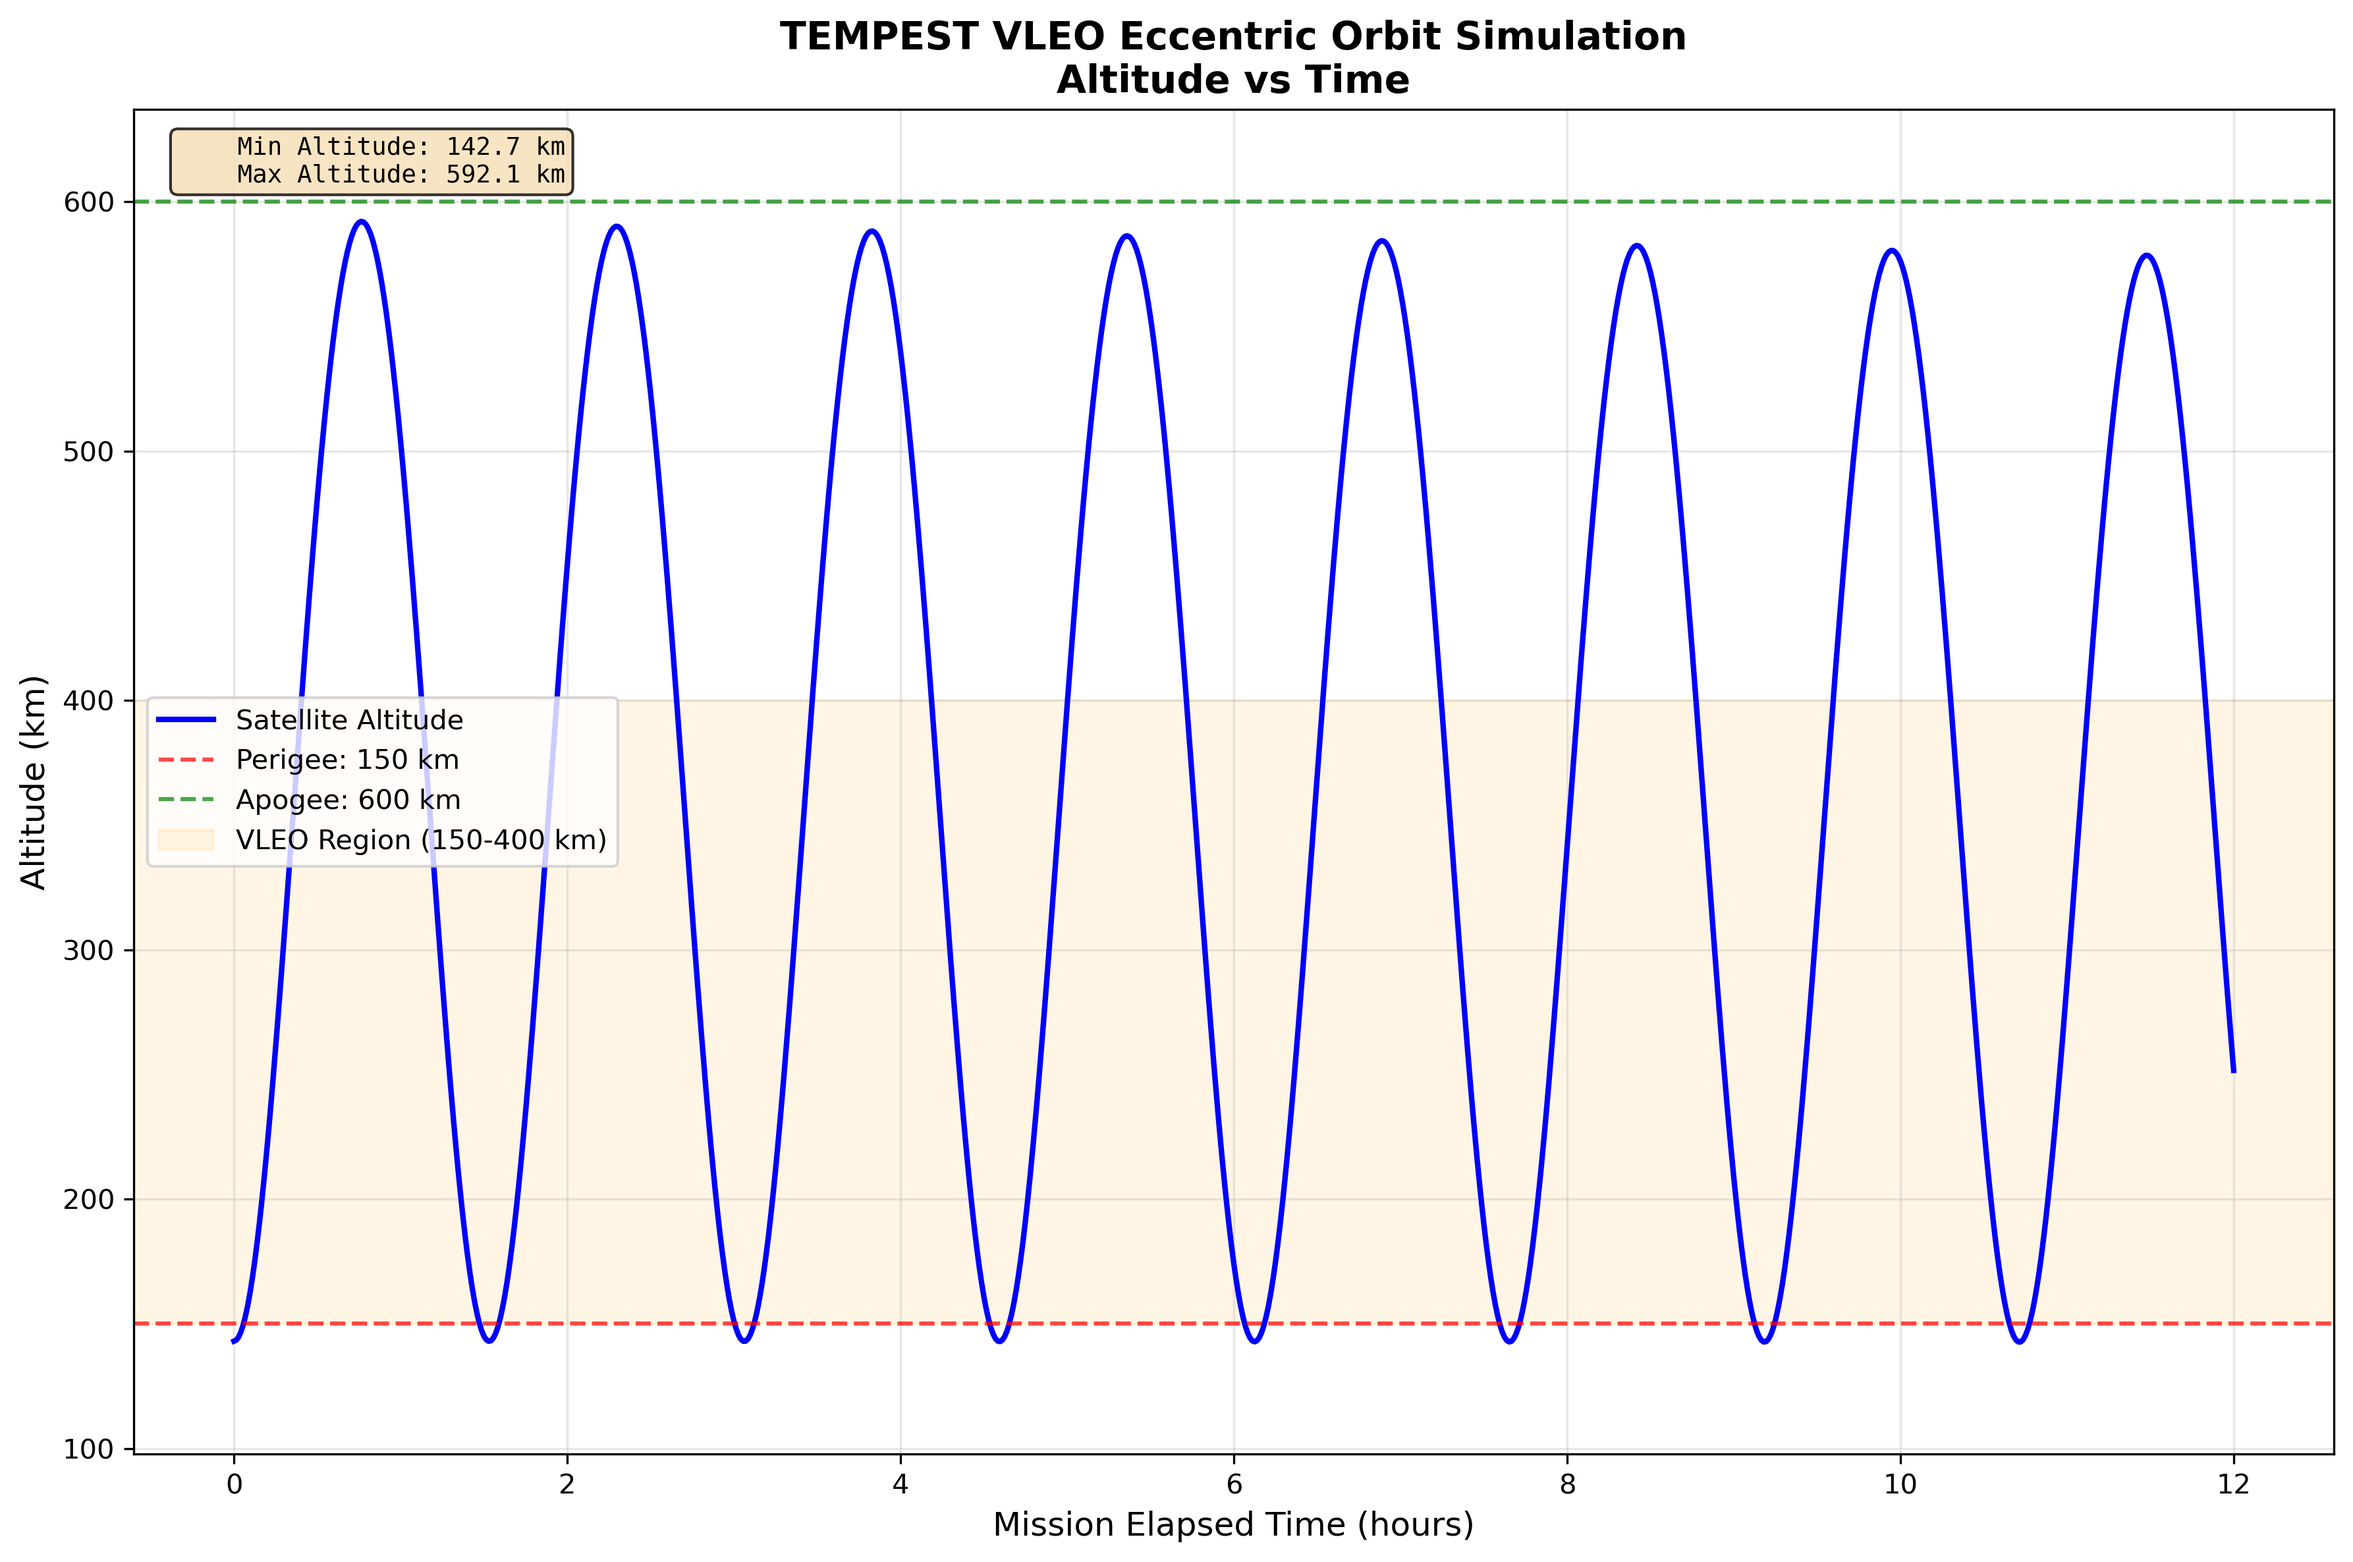
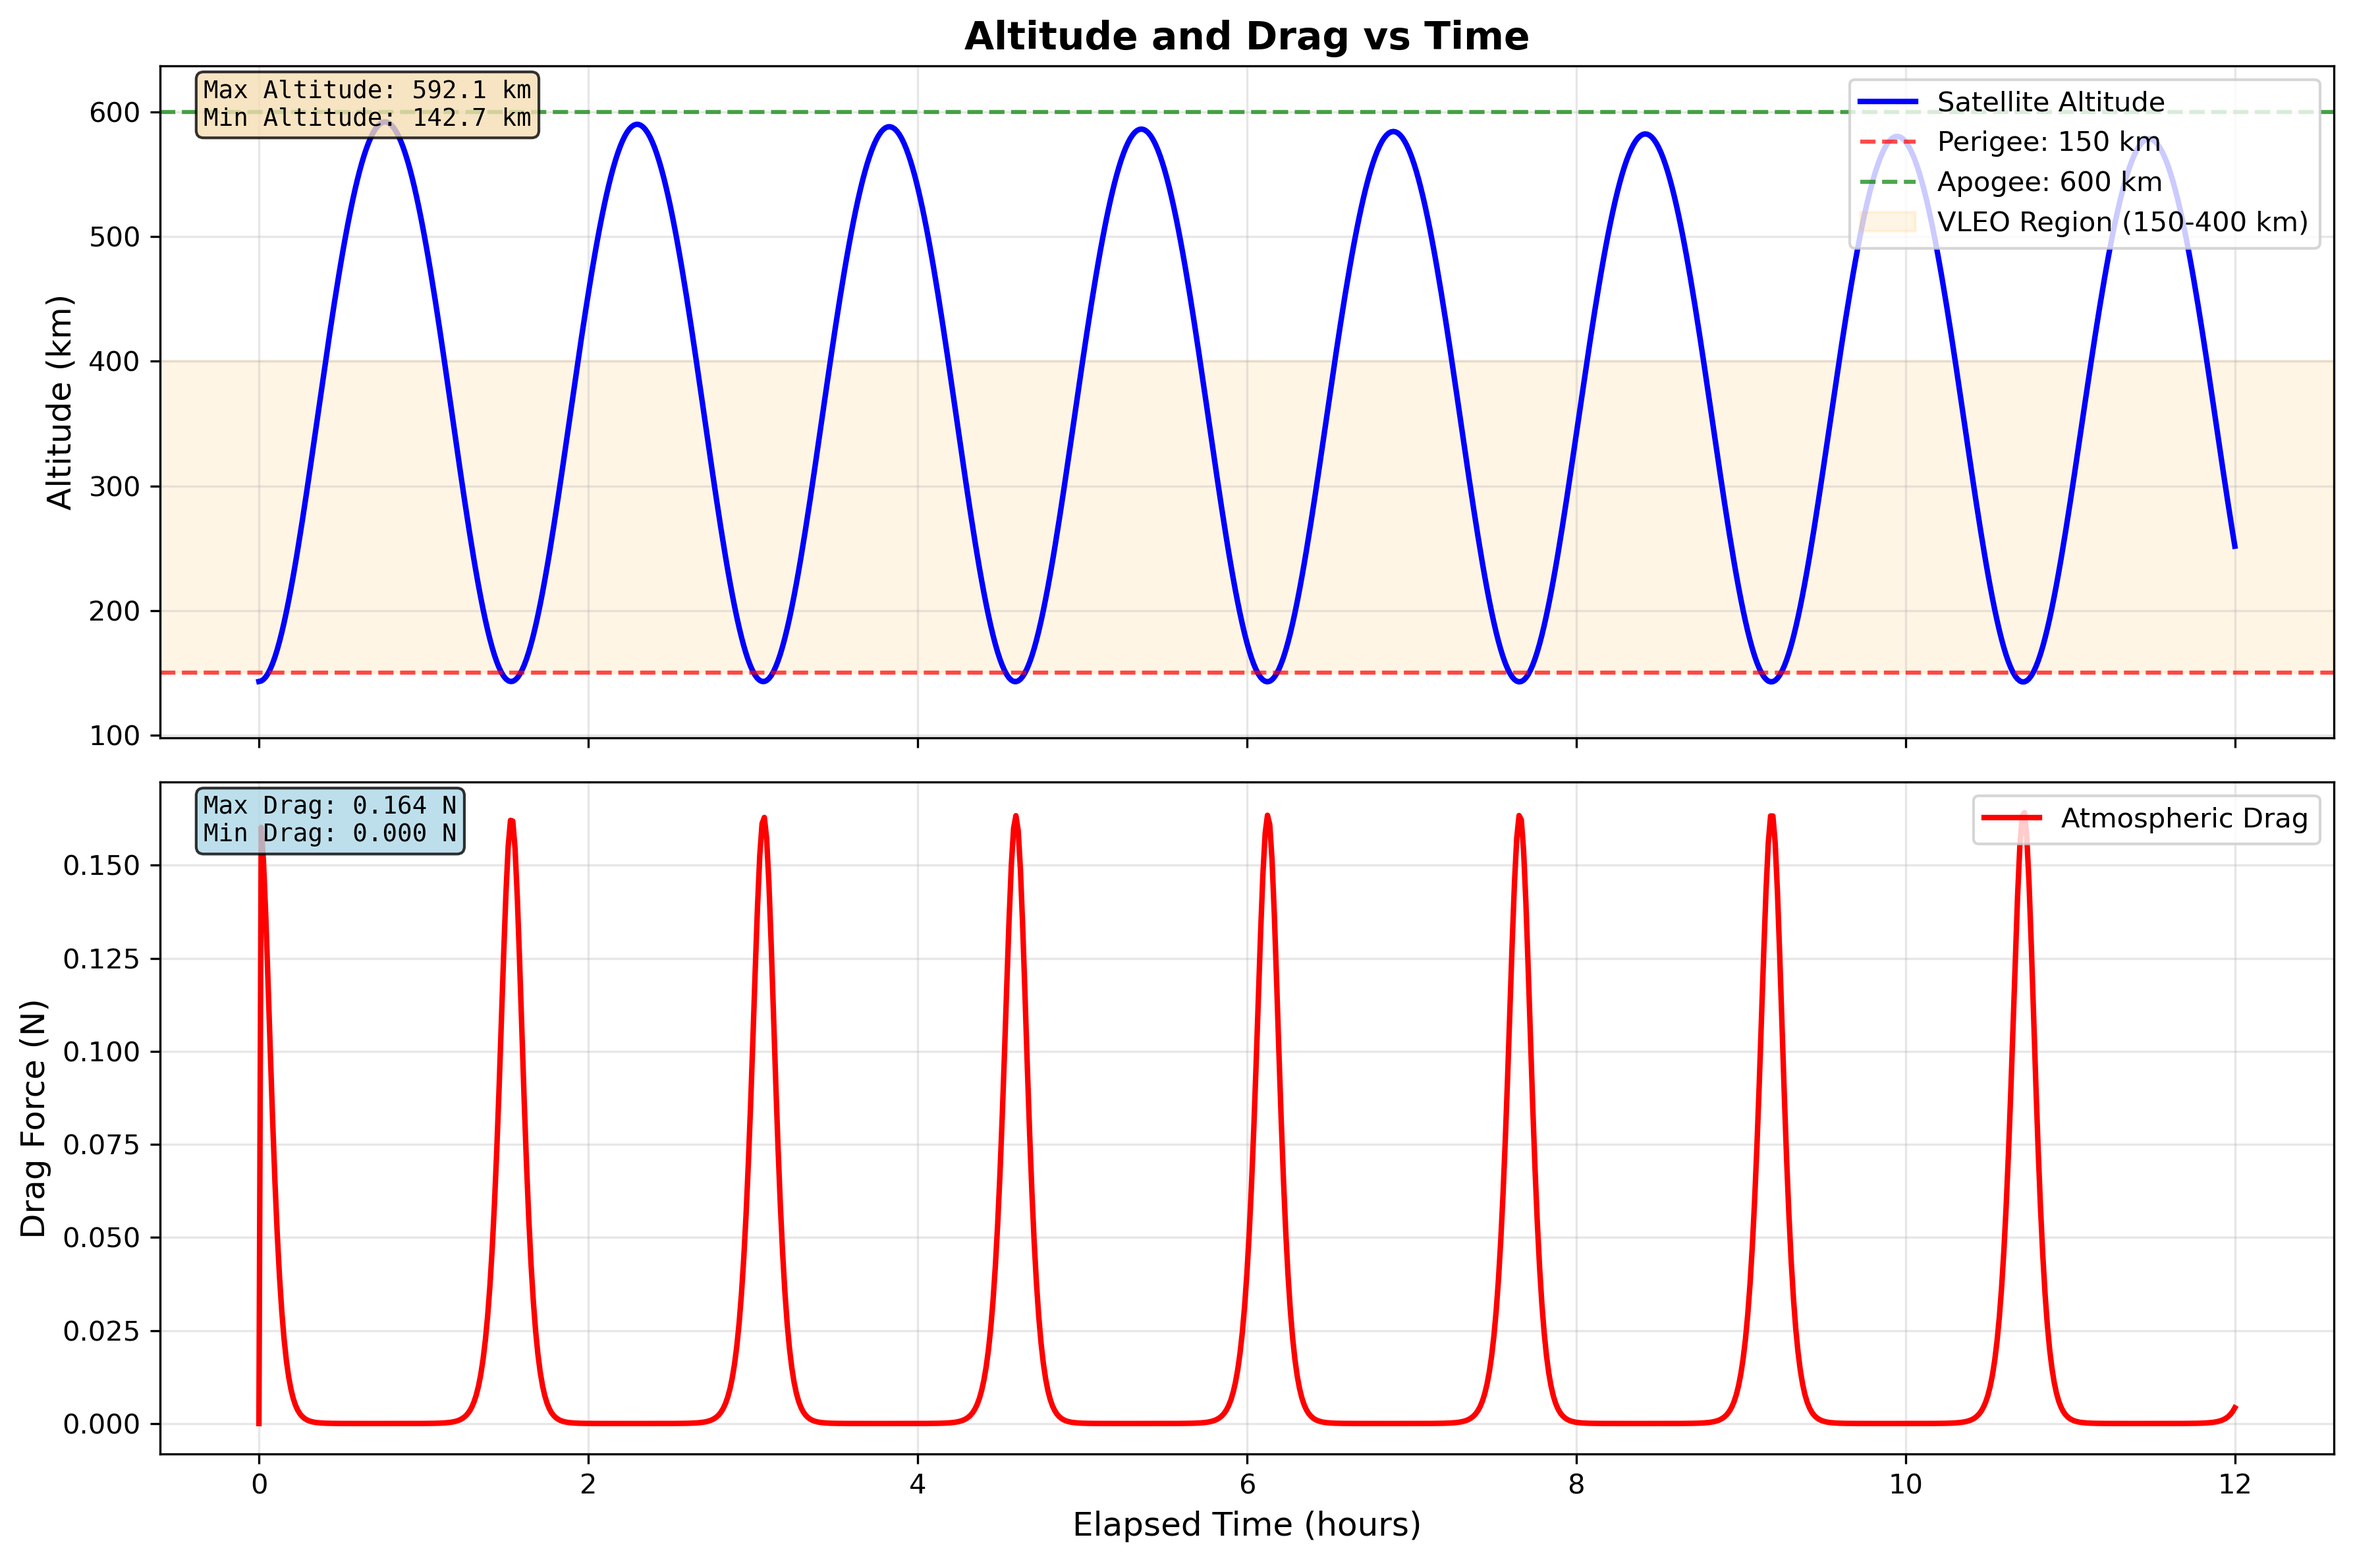
drag added to graph

diff --git a/scripts/plot_altitude_vs_time.py b/scripts/plot_altitude_vs_time.py
@@ -16,46 +16,61 @@ def read_tempest_output(filename):
     altitude_km = data[:, 2]     # j2 corrected altitude
     perigee_km = data[:, 4]      # perigee
     apogee_km = data[:, 5]       # apogee
+    atm_drag_n = data[:, 10]     # atmospheric drag in newtons
     
     print(f"loaded {len(time_hours)} data points")
     print(f"time range: {time_hours[0]:.3f} to {time_hours[-1]:.3f} hours")
     print(f"altitude range: {altitude_km.min():.1f} to {altitude_km.max():.1f} km")
+    print(f"drag range: {atm_drag_n.min():.3f} to {atm_drag_n.max():.3f} N")
     
-    return time_hours, altitude_km, perigee_km, apogee_km
+    return time_hours, altitude_km, perigee_km, apogee_km, atm_drag_n
 
-def plot_altitude_vs_time(time_hours, altitude_km, perigee_km, apogee_km, output_file):
+def plot_altitude_vs_time(time_hours, altitude_km, perigee_km, apogee_km, atm_drag_n, output_file):
     
-    plt.figure(figsize=(12, 8))
-    plt.plot(time_hours, altitude_km, 'b-', linewidth=2, label='Satellite Altitude')
+    # create figure with two subplots sharing x-axis
+    fig, (ax1, ax2) = plt.subplots(2, 1, figsize=(12, 8), sharex=True)
     
-    # lines for perigee and apogee (initial values)
-    plt.axhline(y=perigee_km[0], color='r', linestyle='--', alpha=0.7, 
+    # top plot: altitude
+    ax1.plot(time_hours, altitude_km, 'b-', linewidth=2, label='Satellite Altitude')
+    
+    # perigee and apogee lines
+    ax1.axhline(y=perigee_km[0], color='r', linestyle='--', alpha=0.7, 
                 label=f'Perigee: {perigee_km[0]:.0f} km')
-    plt.axhline(y=apogee_km[0], color='g', linestyle='--', alpha=0.7, 
+    ax1.axhline(y=apogee_km[0], color='g', linestyle='--', alpha=0.7, 
                 label=f'Apogee: {apogee_km[0]:.0f} km')
     
-    # highlight VLEO region
-    plt.axhspan(150, 400, alpha=0.1, color='orange', label='VLEO Region (150-400 km)')
+    # vleo region shading
+    ax1.axhspan(150, 400, alpha=0.1, color='orange', label='VLEO Region (150-400 km)')
     
-    plt.xlabel('Mission Elapsed Time (hours)', fontsize=12)
-    plt.ylabel('Altitude (km)', fontsize=12)
-    plt.title('TEMPEST VLEO Eccentric Orbit Simulation\nAltitude vs Time', fontsize=14, fontweight='bold')
-    plt.grid(True, alpha=0.3)
-    plt.legend(fontsize=10)
+    ax1.set_ylabel('Altitude (km)', fontsize=12)
+    ax1.set_title('Altitude and Drag vs Time', fontsize=14, fontweight='bold')
+    ax1.grid(True, alpha=0.3)
+    ax1.legend(fontsize=10, loc='upper right')
     
-    # y-axis limits with some margin
+    # y-axis limits with margin for altitude
     y_margin = (altitude_km.max() - altitude_km.min()) * 0.1
-    plt.ylim(altitude_km.min() - y_margin, altitude_km.max() + y_margin)
+    ax1.set_ylim(altitude_km.min() - y_margin, altitude_km.max() + y_margin)
     
-    # statistics text box
-    stats_text = f'''    Min Altitude: {altitude_km.min():.1f} km
-    Max Altitude: {altitude_km.max():.1f} km'''
-    
-    plt.text(0.02, 0.98, stats_text, transform=plt.gca().transAxes, 
+    # stats box for altitude
+    stats_text = f'''Max Altitude: {altitude_km.max():.1f} km\nMin Altitude: {altitude_km.min():.1f} km'''
+    ax1.text(0.02, 0.98, stats_text, transform=ax1.transAxes, 
              verticalalignment='top', bbox=dict(boxstyle='round', facecolor='wheat', alpha=0.8),
              fontsize=9, fontfamily='monospace')
     
-    # Save plot
+    # bottom plot: atmospheric drag
+    ax2.plot(time_hours, atm_drag_n, 'r-', linewidth=2, label='Atmospheric Drag')
+    ax2.set_xlabel('Elapsed Time (hours)', fontsize=12)
+    ax2.set_ylabel('Drag Force (N)', fontsize=12)
+    ax2.grid(True, alpha=0.3)
+    ax2.legend(fontsize=10, loc='upper right')
+    
+    # stats box for drag
+    drag_stats = f'''Max Drag: {atm_drag_n.max():.3f} N\nMin Drag: {atm_drag_n.min():.3f} N'''
+    ax2.text(0.02, 0.98, drag_stats, transform=ax2.transAxes, 
+             verticalalignment='top', bbox=dict(boxstyle='round', facecolor='lightblue', alpha=0.8),
+             fontsize=9, fontfamily='monospace')
+    
+    # save plot
     plt.tight_layout()
     plt.savefig(output_file, dpi=300, bbox_inches='tight')
     print(f"Plot saved to: {output_file}")
@@ -77,6 +92,6 @@ if not os.path.exists(input_file):
     sys.exit(1)
 
 # read data and make plot
-time_hours, altitude_km, perigee_km, apogee_km = read_tempest_output(input_file)
-plot_altitude_vs_time(time_hours, altitude_km, perigee_km, apogee_km, output_file)
+time_hours, altitude_km, perigee_km, apogee_km, atm_drag_n = read_tempest_output(input_file)
+plot_altitude_vs_time(time_hours, altitude_km, perigee_km, apogee_km, atm_drag_n, output_file)
 print(f"done: {output_file}")
